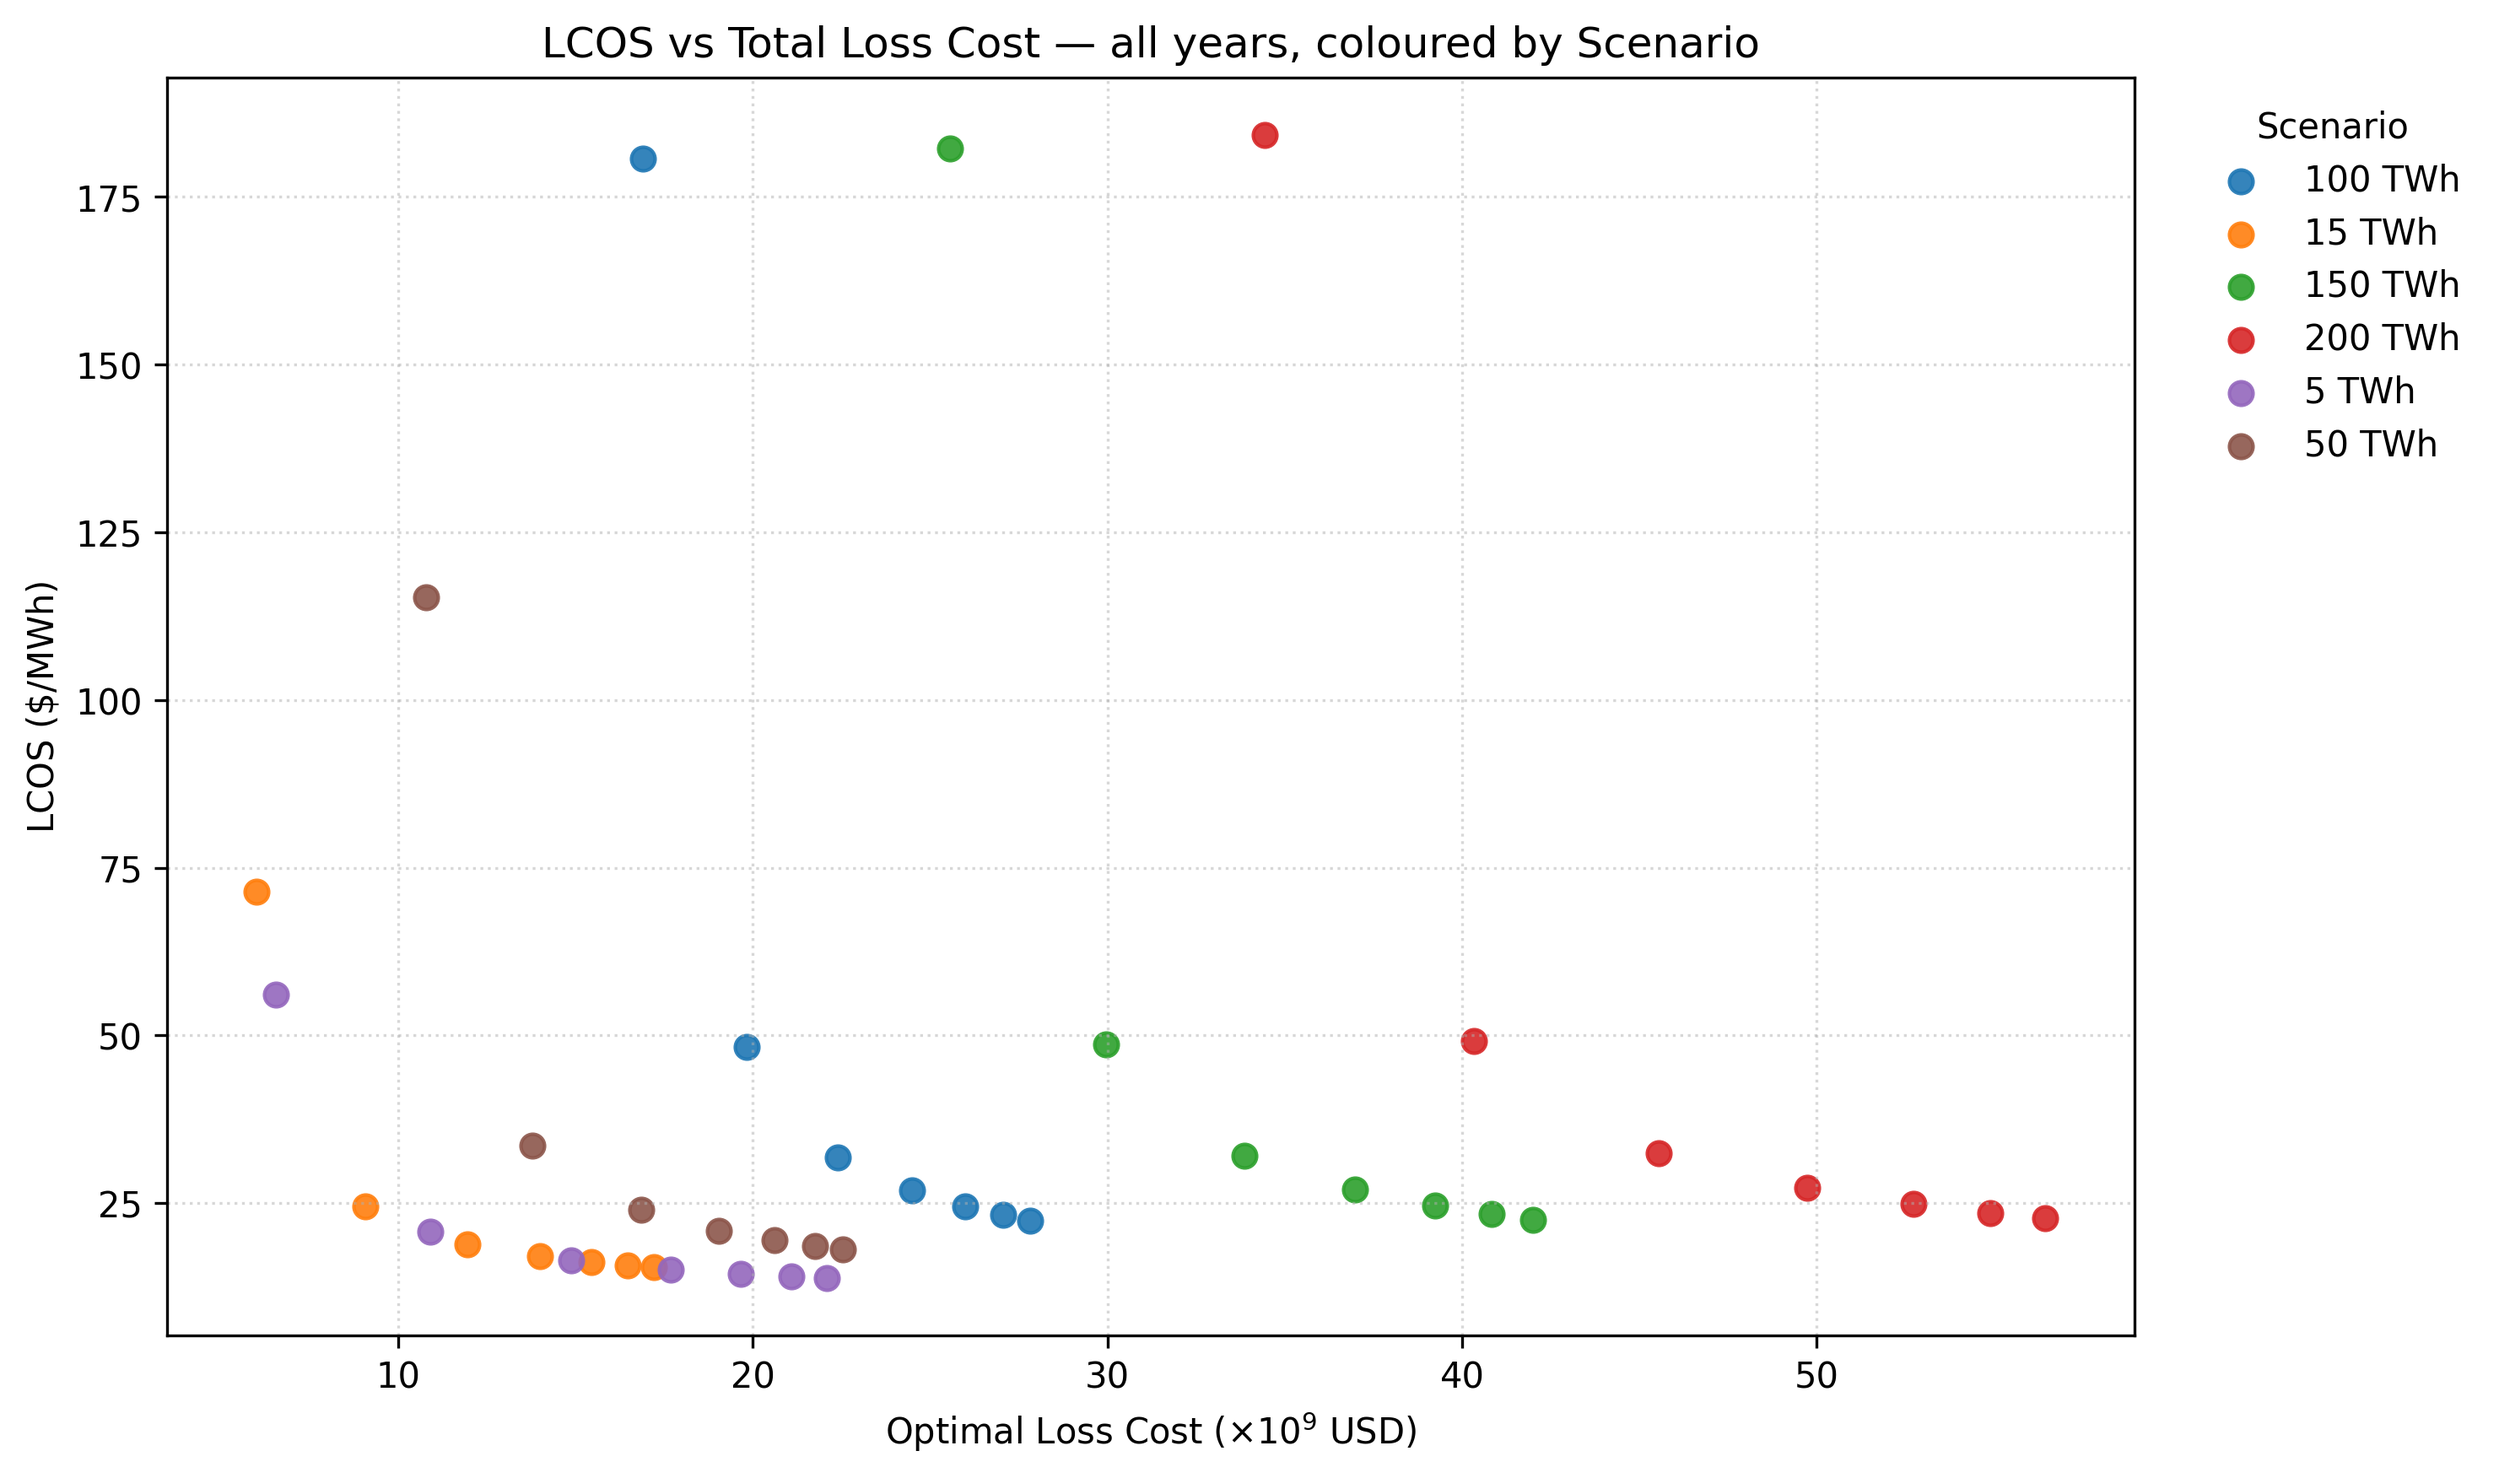
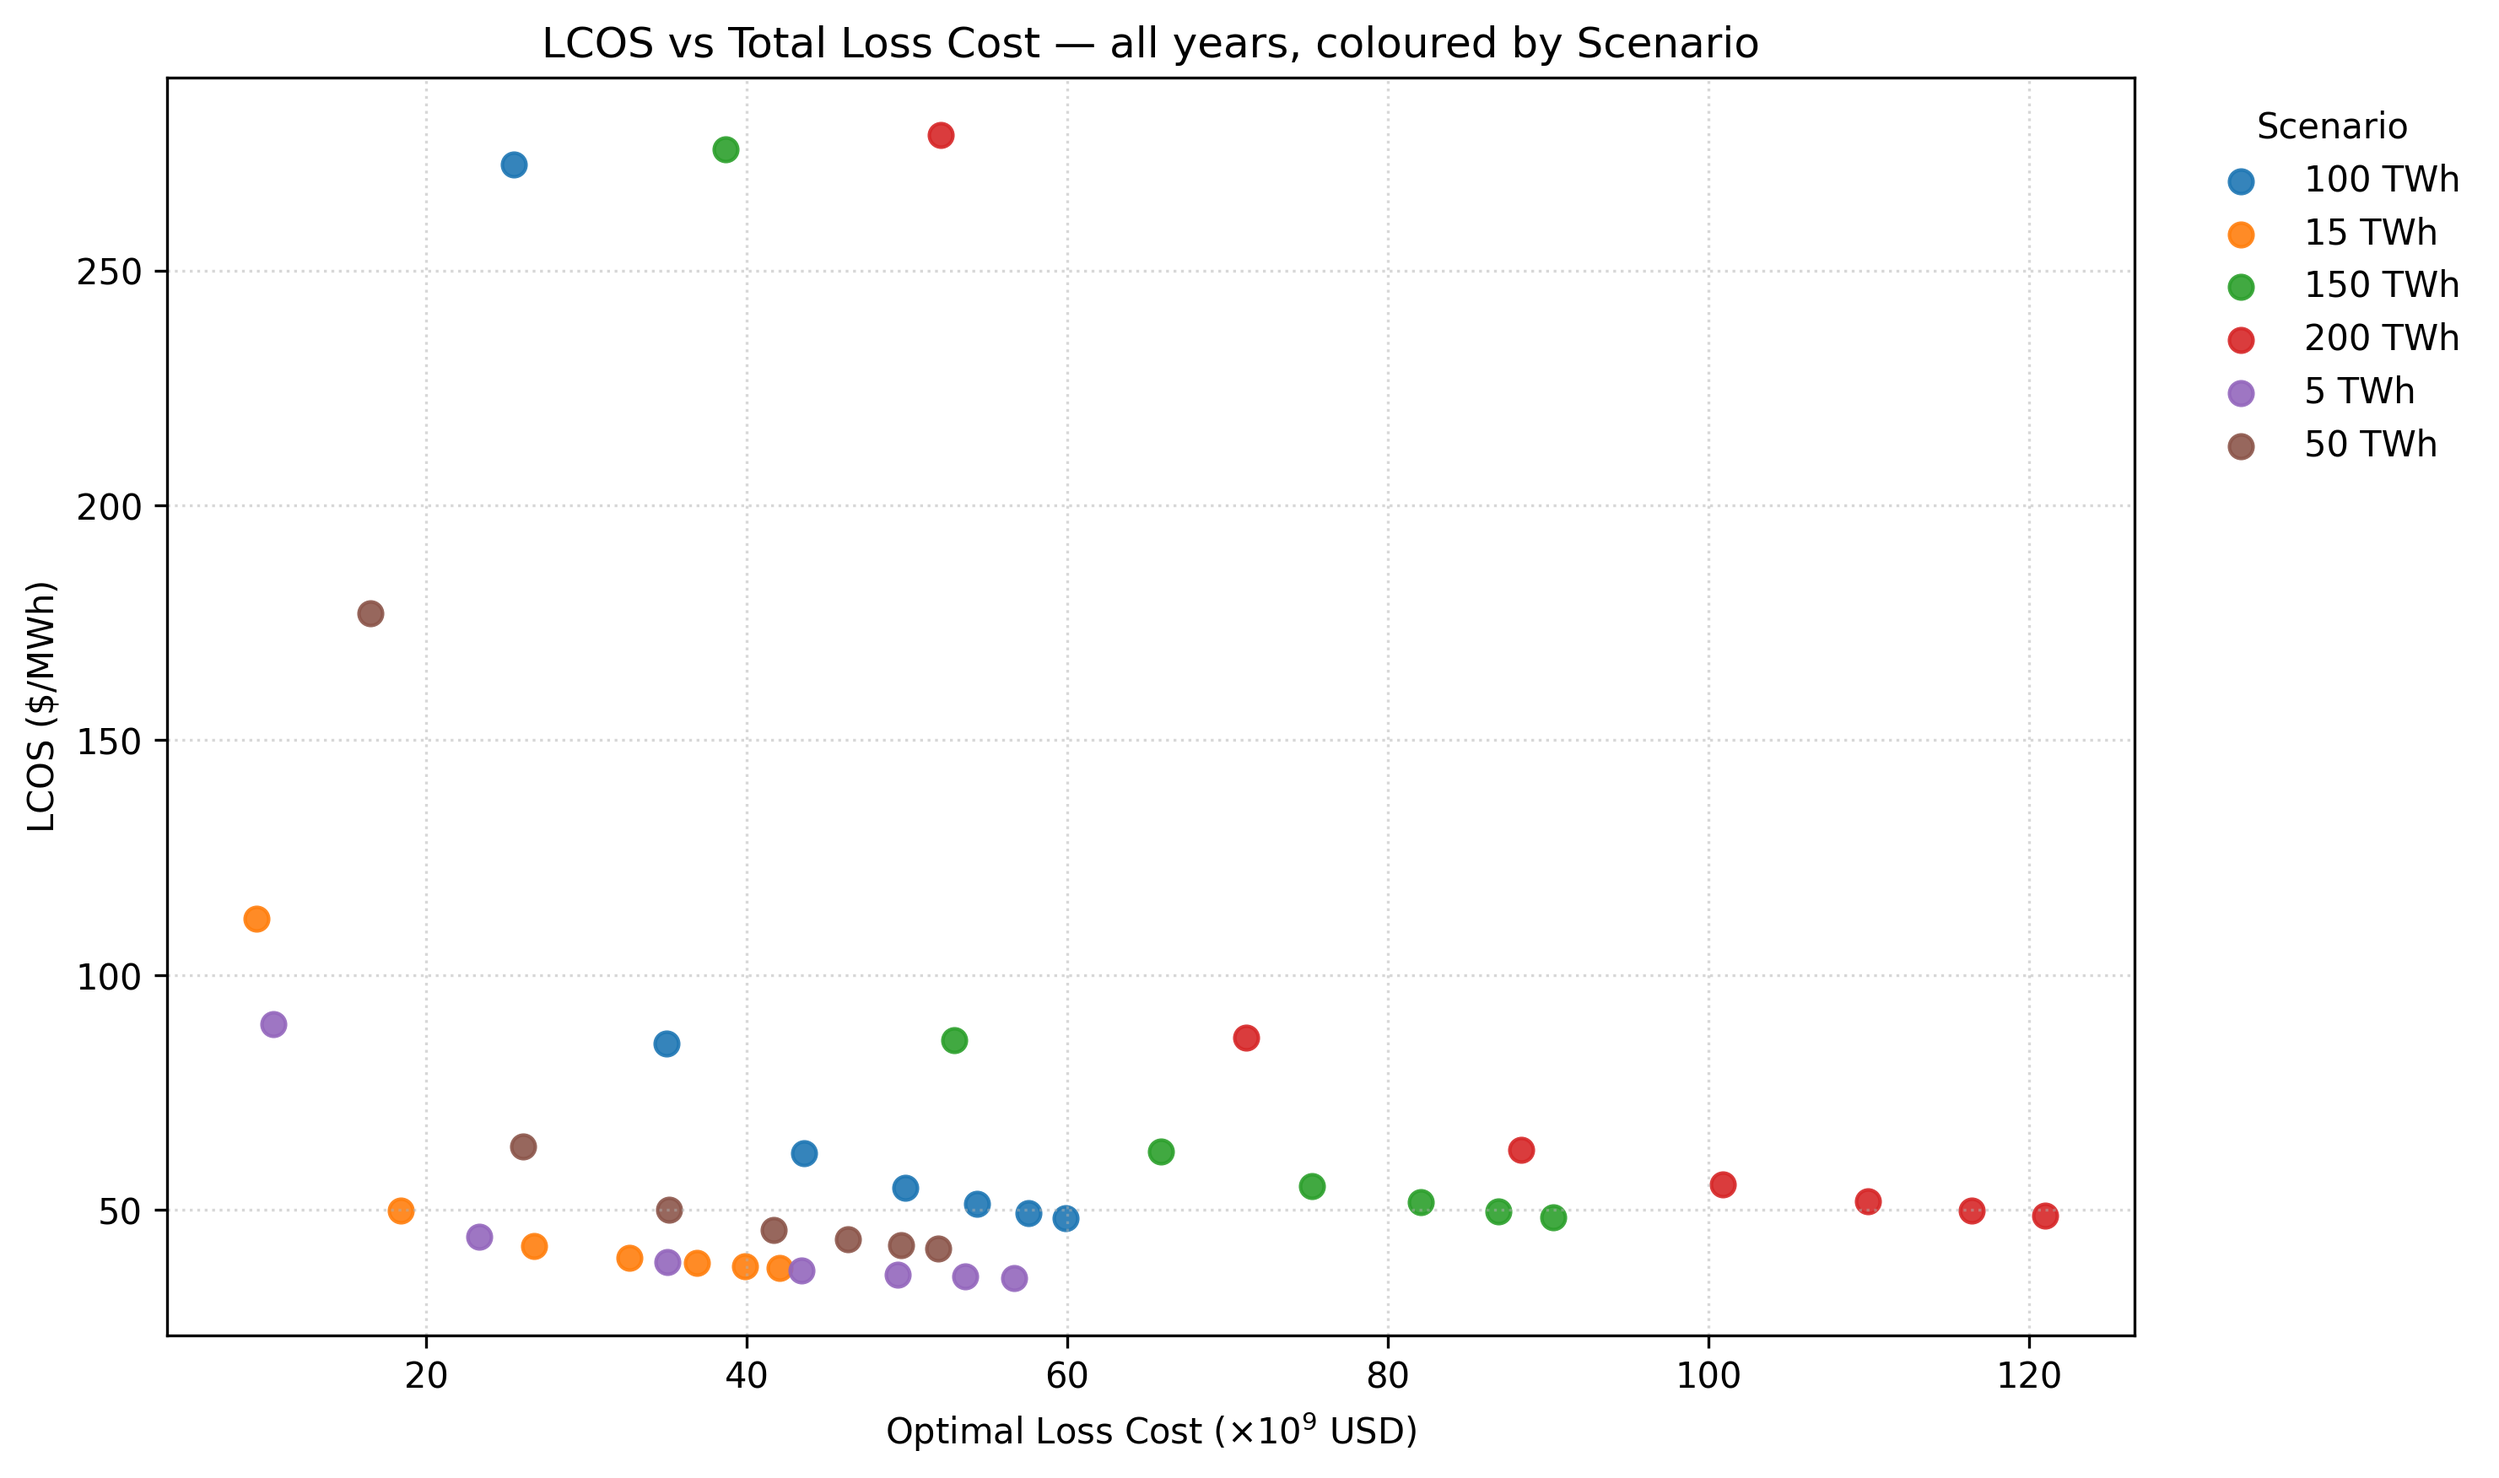
still working on PSA

diff --git a/PostFun/Cost_optimisation_gurobi.py b/PostFun/Cost_optimisation_gurobi.py
@@ -6,15 +6,16 @@ from gurobipy import GRB
 from CoolProp.CoolProp import PropsSI
 # ---------------- USER SETTINGS ----------------
 INPUT_DIR   = r"Y:\Mixing Results\July"
-H2_COST_PER_KG = 4.0                   # £/kg (already used in your dataset creation, but we'll recompute safely)
+H2_COST_PER_KG = 3.0                   # £/kg (already used in your dataset creation, but we'll recompute safely)
 KG_PER_M3_STP  =  PropsSI("D", "P", 1 * 1e5, "T", 293.15, "Hydrogen")
 KWH_PER_KG_H2  = 39.41                 # kWh/kg (HHV)
-TARGET_TWH  = 50                   # energy target
-CL = 180 
+# PSA_cap = 20
+TARGET_TWH  = 100                   # energy target
+CL = 360 
 r = 0.07
-FOLDER = f"optim_dataset_{CL}_H2"
+FOLDER = f"optim_dataset_{CL}_H2_{H2_COST_PER_KG}"  # subfolder in INPUT_DIR
 NOC = 1 # number of cycles
-OUTPUT_PLAN   = f"optimal_plan_CL{CL}_TWh{TARGET_TWH}.xlsx"
+OUTPUT_PLAN   = f"optimal_plan_CL{CL}_TWh{TARGET_TWH}_High_H2{H2_COST_PER_KG}.xlsx"
 # Optional global limits:
 WELL_BUDGET   = None    # e.g., 500   -> limit total wells across UK
 ALLOW_CG      = True    # False -> forces CG Ratio == 0 scenarios only
@@ -64,12 +65,12 @@ def load_scenarios(input_dir, pattern, allow_cg=True, cyc = 0):
     Twh_per_cycle = (df["Flow Rate [sm3/d]"]* df["Number of Wells"] * df["Cycle Length [d]"] / 2) * KWH_PER_M3 / 1e9
     df["Net H2 Stored [Twh]"] = df["Net H2 Stored [m3]"] * KWH_PER_M3 / 1e9
     PSA_cap = 10.4702 * np.exp(-60.7137 * df["Predicted RF [-]"]) + 3.1879 * np.exp(-4.8854 * df["Predicted RF [-]"])
+    # PSA_cap = 2.756 * np.exp(-9.223 * df["Predicted RF [-]"]) + 0.884
     PSA_cap = PSA_cap  * 100
+    # PSA_cap = PSA_cap_  # override with user setting
     df["PSA Cost [$/kg]"] = PSA_cap
     print(np.average(PSA_cap))
-    PSA_rec = 1
-    if any(PSA_cap < 0):
-        PSA_cap[PSA_cap < 0] = 0.0
+    # PSA_rec = 1
     PSA_opex = PSA_cap / 0.6 * 0.4
     
     # Compute loss cost from data only (no ML)
@@ -78,6 +79,8 @@ def load_scenarios(input_dir, pattern, allow_cg=True, cyc = 0):
         # check2 = df["Net H2 Stored [Twh]"][0] 
         # check3 = df["Cum H2 Produced [Twh]"][0]
         # check4 = (cyc - 9) * (df["Predicted MRf [-]"][0] * Twh_per_cycle[0])
+        # PSA_rec = -0.4006 * np.exp(-6.5626 * df["Predicted MRf [-]"]) + 0.8078 
+        PSA_rec = df["Predicted MRf [-]"]
         df["Lost [Twh]"]       = (df["Net H2 Stored [Twh]"] + (cyc - 9) * ((1 - PSA_rec * df["Predicted MRf [-]"]) * Twh_per_cycle) + df["Cum CG Injected [Twh]"])
         df["Cum H2 Produced [Twh]"] = df["Cum H2 Produced [Twh]"] + (cyc - 9) * PSA_rec * (df["Predicted MRf [-]"] * Twh_per_cycle)
         df["Cum H2 Injected [Twh]"] = df["Cum H2 Injected [Twh]"] + (cyc - 9) * Twh_per_cycle
@@ -200,7 +203,7 @@ if __name__ == "__main__":
                 "Field Name", "Flow Rate [sm3/d]", "Number of Wells", "CG Ratio",
                 "Cum H2 Injected [m3]", "CG injected [m3]", "Cum H2 Produced [m3]", "Net H2 Stored [m3]",
                 "Loss Cost [£]", "Porosity [-]", "Permeability [mD]", "Reservoir Pressure[bar]", "Reservoir Temp [K]","PSA Cost [$/kg]","Purification Capital Cost [$]", "Loss Cost [M$]", 
-                "Cum H2 Produced [Twh]","Cum H2 Injected [Twh]", "LCOS"
+                "Cum H2 Produced [Twh]","Cum H2 Injected [Twh]", "LCOS","Predicted RF [-]"
             ]
             # sol["Cum H2 Produced [Twh]"] = sol["Cum H2 Produced [Twh]"] / (cyc + 1)
             sol["Cum H2 Injected [Twh]"] = sol["Cum H2 Injected [Twh]"] / (cyc) 

diff --git a/PostFun/Optimisation_Data_generation.py b/PostFun/Optimisation_Data_generation.py
@@ -14,6 +14,7 @@ from joblib import dump, load
 import torch.nn as nn
 from pyDOE2 import lhs
 
+H2_cost = 5.0
 T_std = 293.15
 P_std = 1.01325
 def get_activation(name):
@@ -64,7 +65,6 @@ def optim_data(df, CL, scalers, model, clf,CG_type):
     cost_of_electricity = 0.14 # $ per kwh
     water_requirment = 50 # L/kg H2
     cooling_cost = 0.0002 # $ per 1 L H2O
-    PSA_rec  = 0.8 
     rho_h2_std = PropsSI("D", "P", P_std * 1e5, "T", T_std, "Hydrogen")
     print(f"{len(df)}")
     for ii in range(len(df)):
@@ -120,11 +120,12 @@ def optim_data(df, CL, scalers, model, clf,CG_type):
                     mrf = cl_i * rf  - rf_list[cl_i - 1] * (cl_i - 1)
                 else:
                     mrf = rf
-                   
+                PSA_rec = -0.4006 * np.exp(-6.5626 * mrf) + 0.8078 
+                # PSA_rec = 0.8
                 WG_cum_prod_H2 = WG_cum_prod_H2 + (mrf * (CL / 2) * Flow_rate * Number_of_wells) * PSA_rec
                 WG_cum_inj_H2 = (CL / 2) * Flow_rate * Number_of_wells
                 CG_cum_inj_H2 = CG_ratio * (CL / 2) * Flow_rate * Number_of_wells
-                gas_cost = (WG_cum_inj_H2 + CG_cum_inj_H2) * rho_h2_std * 4.0 # $
+                gas_cost = (WG_cum_inj_H2 + CG_cum_inj_H2) * rho_h2_std * H2_cost # $
                 if CG_cum_inj_H2 + WG_cum_inj_H2 > H2_capacity:
                     continue
                 total_hours = (CL/2) * 24 + (CL / 2) * CG_ratio * 24
@@ -165,7 +166,7 @@ def optim_data(df, CL, scalers, model, clf,CG_type):
                             "Cum H2 Injected [Twh]": (cl_i + 1) * WG_inj_TWh,
                             "Cum H2 Produced [Twh]": WG_prod_TWh,
                             })
-    folder = os.path.join(input_directory, f"optim_dataset_{CL}_{CG_type}")
+    folder = os.path.join(input_directory, f"optim_dataset_{CL}_{CG_type}_{H2_cost}")
     os.makedirs(folder, exist_ok=True)
     data = pd.DataFrame(data)
     for k in range(10): 
@@ -247,12 +248,10 @@ def main(input_directory):
     # model.load_state_dict(torch.load("ann_model_withoutCG.pt"))
     # model.eval()
     # scalers = joblib.load("scalers_withoutCG.pkl")
-    H2_cost = 4.0 # $/kg
-    H2_cost = H2_cost * 0.08988 # $/m3
     Number_of_cycles = 20
     CG_type = 'H2'
     results =[]
-    Cycle_length = 14
+    Cycle_length = 360
     data = optim_data(df_clean, Cycle_length, scalers, model, clf, CG_type)
     
 os.chdir("Y:\\Mixing Results\\July")  # Change to the directory containing your simulation files
